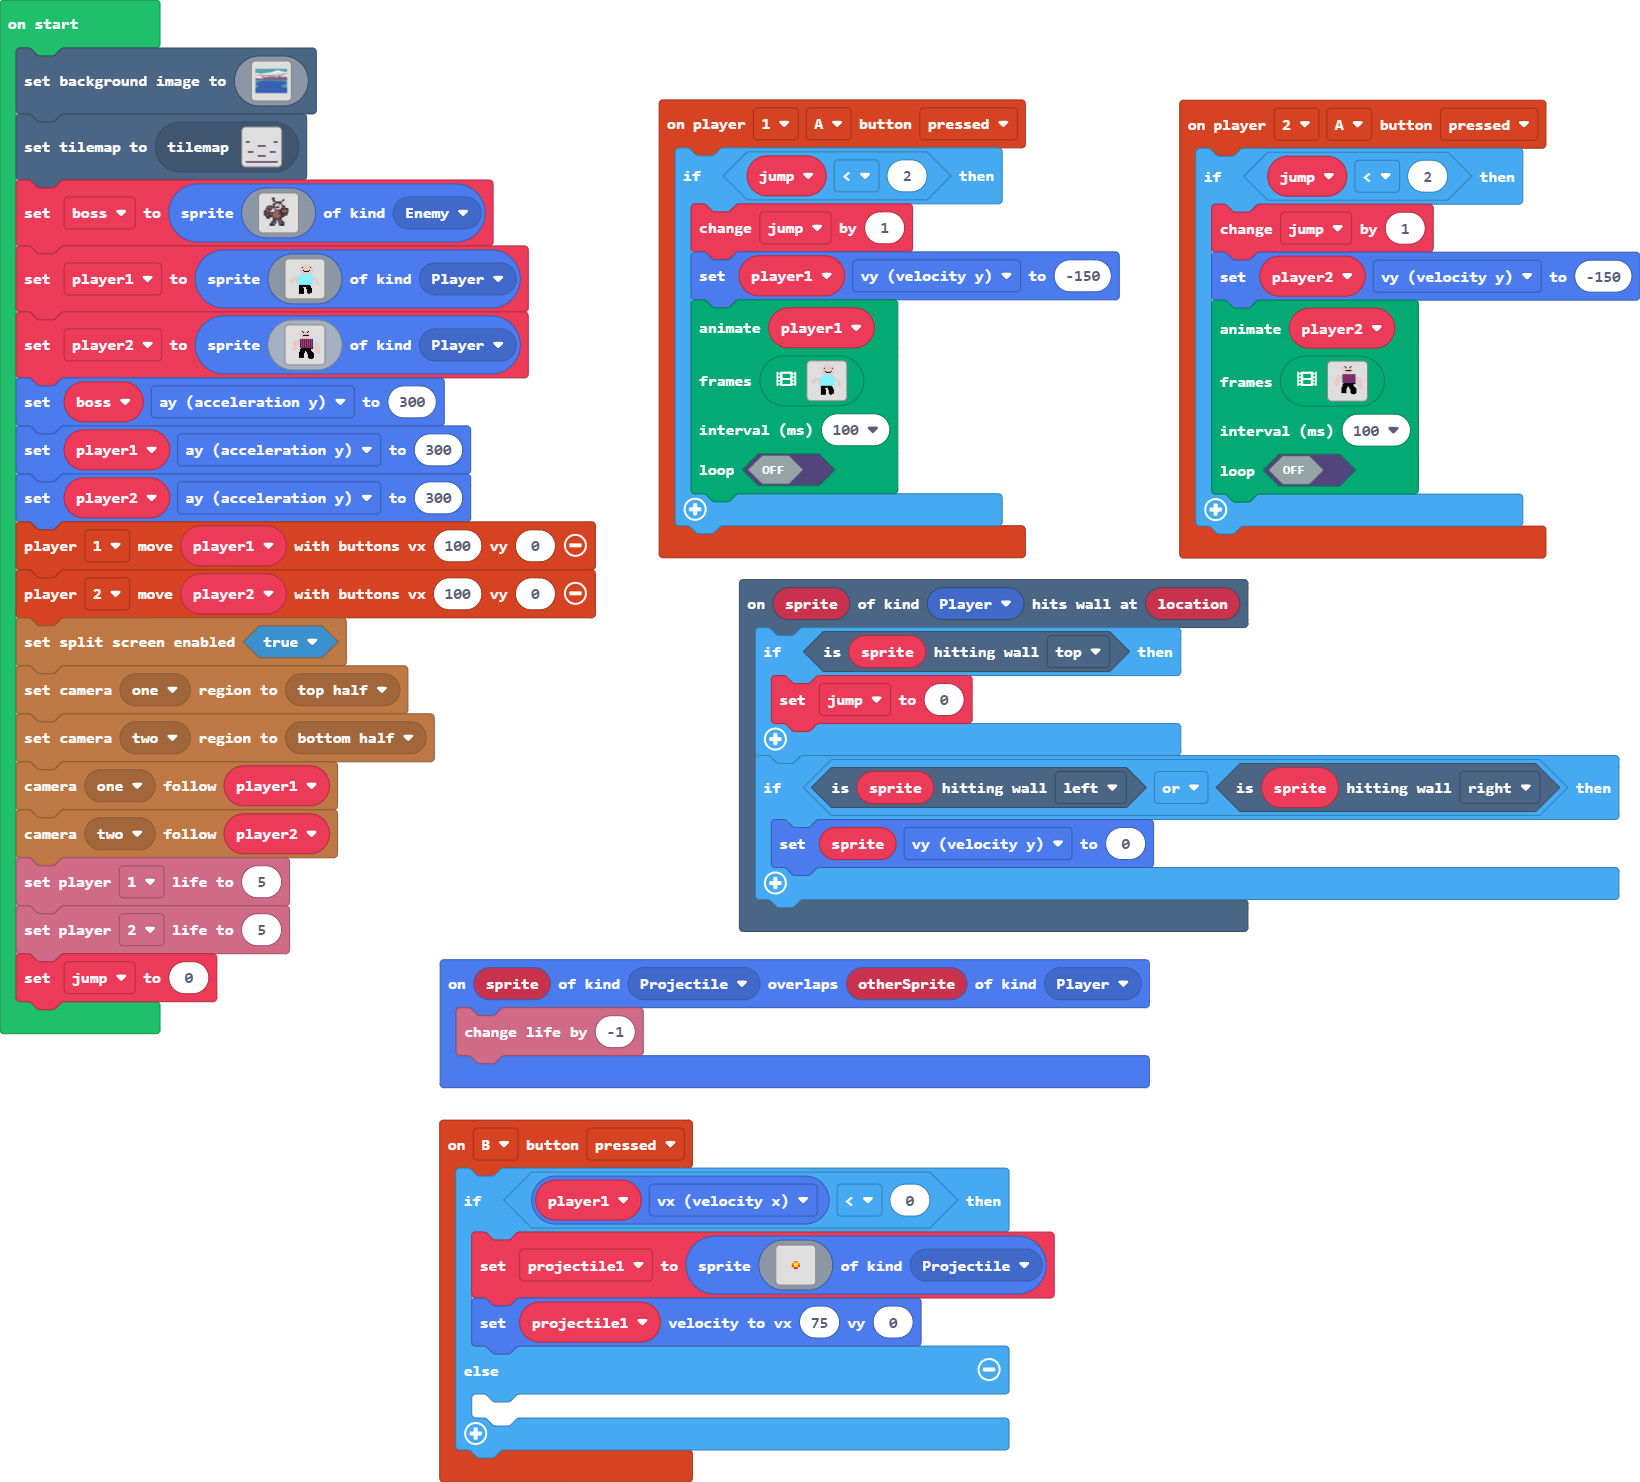
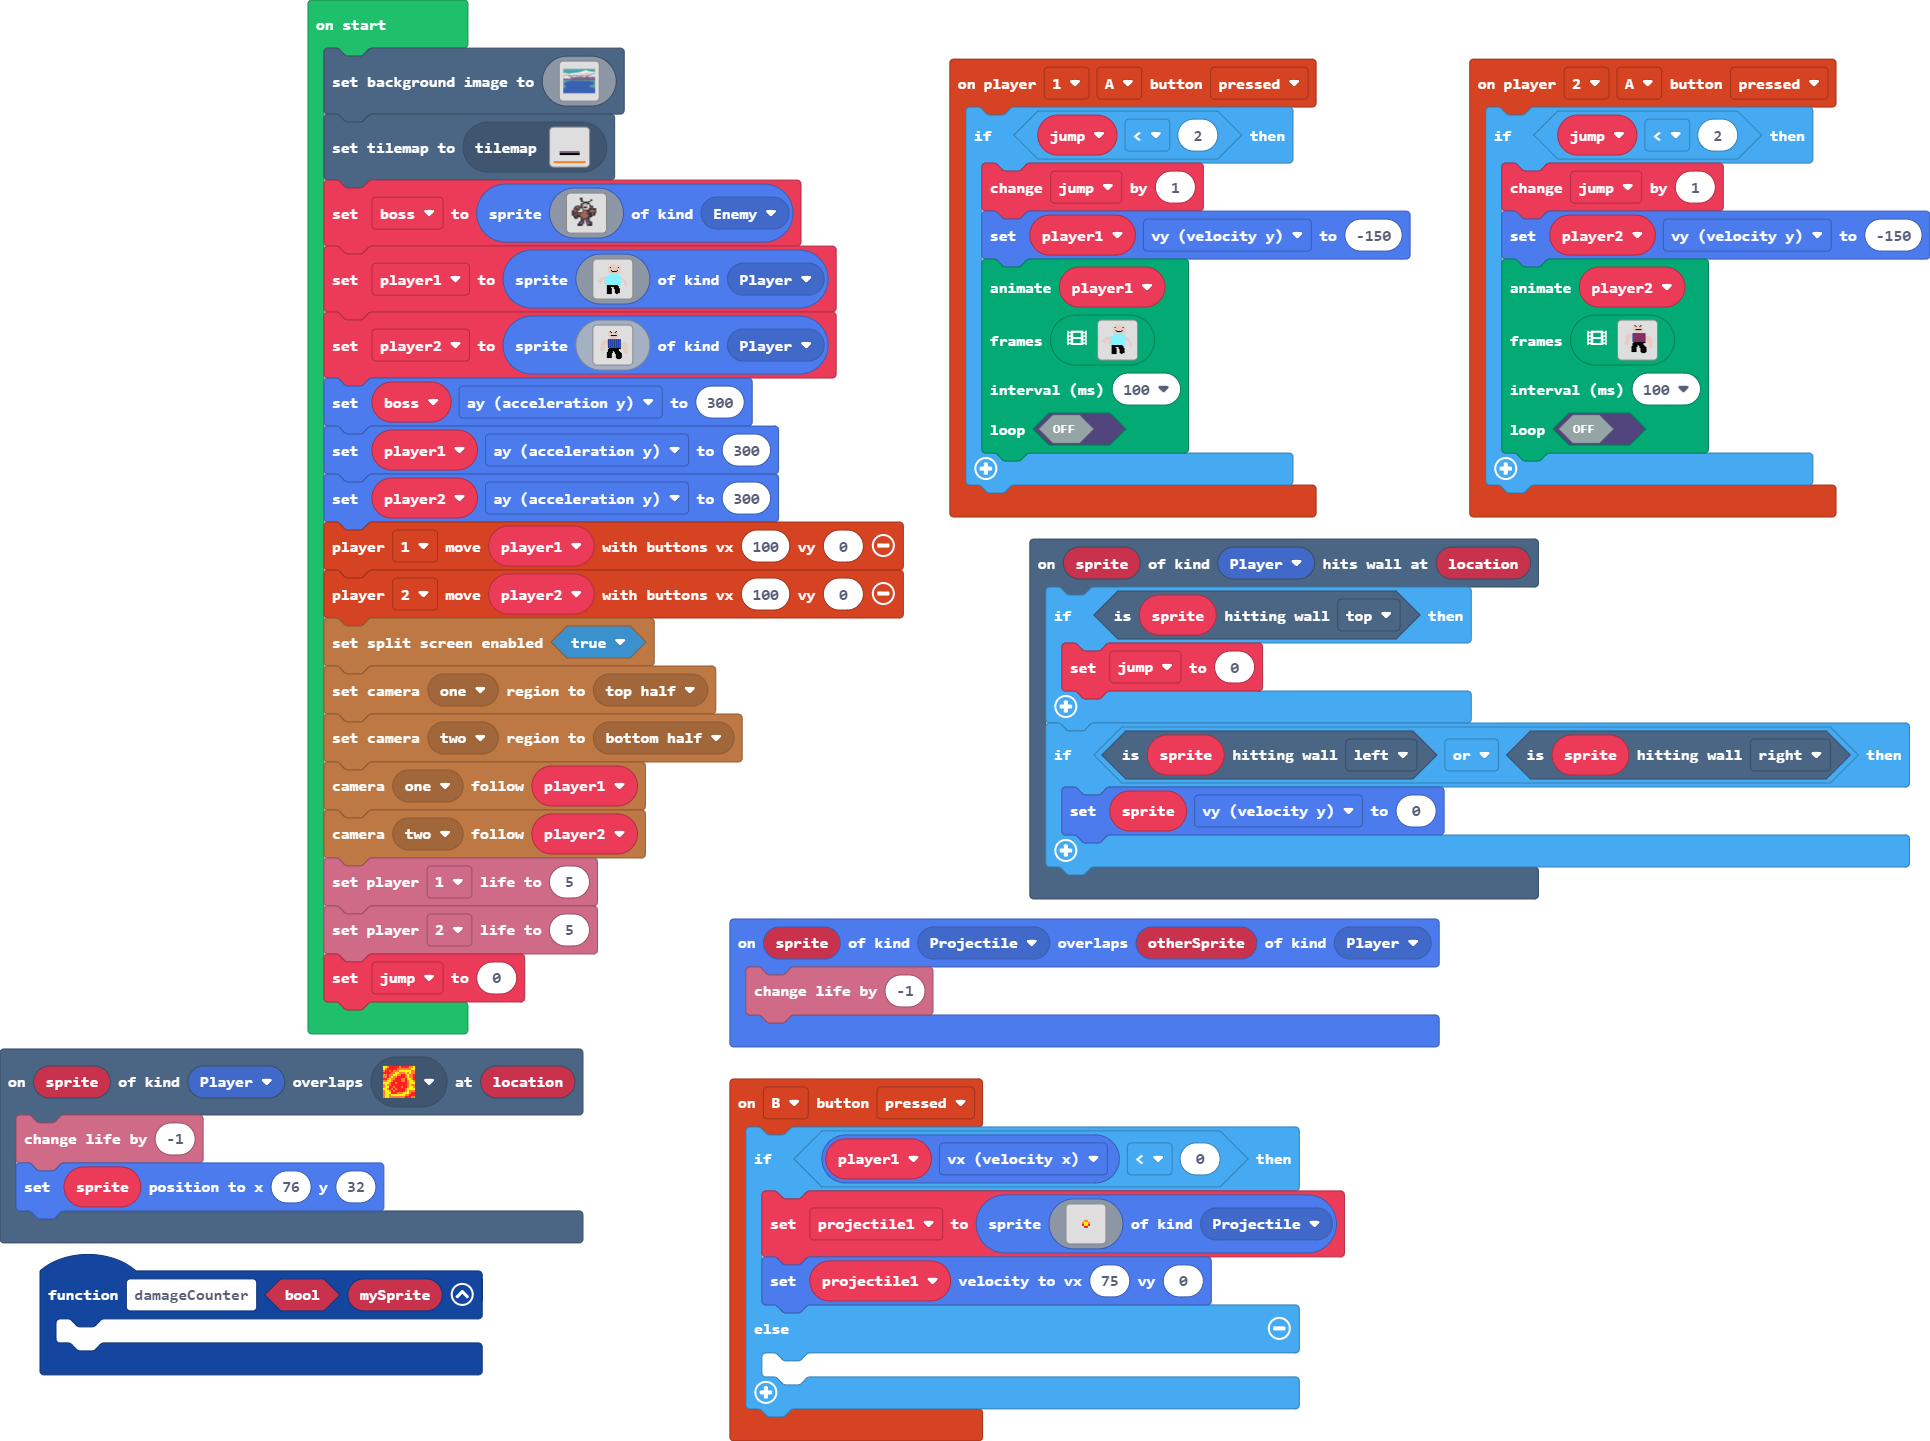
Update main.blocks, main.ts, tilemap.g.jres, tilemap.g.ts

diff --git a/tilemap.g.ts b/tilemap.g.ts
@@ -6,24 +6,24 @@ namespace myTiles {
     helpers._registerFactory("tilemap", function(name: string) {
         switch(helpers.stringTrim(name)) {
             case "level1":
-            case "level1":return tiles.createTilemap(hex`1000100000000000000000000000000000000000000000000000000000000000000000000000000000000000000000000000000000000000000000000000000000000000000000000000000000000000000000000101000000000000000000000000010100000000000000000000000000000000000000000000010101010000000000000000000000000000000000000000000000000000000000000000000000000000000101010000000000000000010101000000000000000000000000000000000000000000000001010101000000000000000000000000000000000000000000000000000000000000000000000000000001010101010101010101010101010101`, img`
+            case "level1":return tiles.createTilemap(hex`1000100000000000000000000000000000000000000000000000000000000000000000000000000000000000000000000000000000000000000000000000000000000000000000000000000000000000000000000000000000000000000000000000000000000000000000000000000000000000000000000000000000000000000000000000000000000000000000000000000000000000000000000000000000000000000000010101010101010101010000000000000403030303030303030500000000000000000000000000000000000000000000000000000000000000000000000000000000000000000000000000000002020202020202020202020202020202`, img`
 . . . . . . . . . . . . . . . . 
 . . . . . . . . . . . . . . . . 
 . . . . . . . . . . . . . . . . 
 . . . . . . . . . . . . . . . . 
 . . . . . . . . . . . . . . . . 
-2 2 . . . . . . . . . . . . 2 2 
-. . . . . . . . . . . . . . . . 
-. . . . . . 2 2 2 2 . . . . . . 
 . . . . . . . . . . . . . . . . 
 . . . . . . . . . . . . . . . . 
-. 2 2 2 . . . . . . . . 2 2 2 . 
-. . . . . . . . . . . . . . . . 
-. . . . . . 2 2 2 2 . . . . . . 
 . . . . . . . . . . . . . . . . 
 . . . . . . . . . . . . . . . . 
-2 2 2 2 2 2 2 2 2 2 2 2 2 2 2 2 
-`, [myTiles.transparency16,sprites.builtin.oceanDepths0], TileScale.Sixteen);
+. . . . . . . . . . . . . . . . 
+. . . 2 2 2 2 2 2 2 2 2 2 . . . 
+. . . . . . . . . . . . . . . . 
+. . . . . . . . . . . . . . . . 
+. . . . . . . . . . . . . . . . 
+. . . . . . . . . . . . . . . . 
+. . . . . . . . . . . . . . . . 
+`, [myTiles.transparency16,sprites.builtin.oceanDepths0,sprites.dungeon.hazardLava0,sprites.builtin.oceanDepths9,sprites.builtin.oceanDepths8,sprites.builtin.oceanDepths10], TileScale.Sixteen);
         }
         return null;
     })

diff --git a/main.ts b/main.ts
@@ -31,6 +31,13 @@ controller.B.onEvent(ControllerButtonEvent.Pressed, function () {
     	
     }
 })
+function damageCounter (bool: boolean, mySprite: Sprite) {
+	
+}
+scene.onOverlapTile(SpriteKind.Player, sprites.dungeon.hazardLava0, function (sprite, location) {
+    info.changeLifeBy(-1)
+    sprite.setPosition(76, 32)
+})
 controller.player2.onButtonEvent(ControllerButton.A, ControllerButtonEvent.Pressed, function () {
     if (jump < 2) {
         jump += 1
